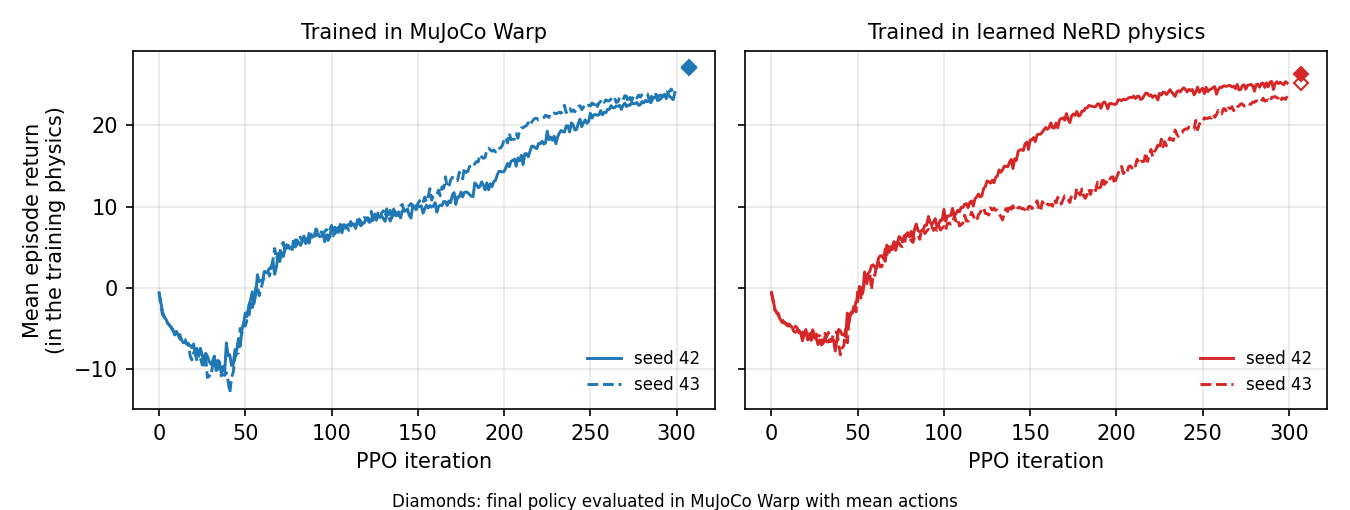
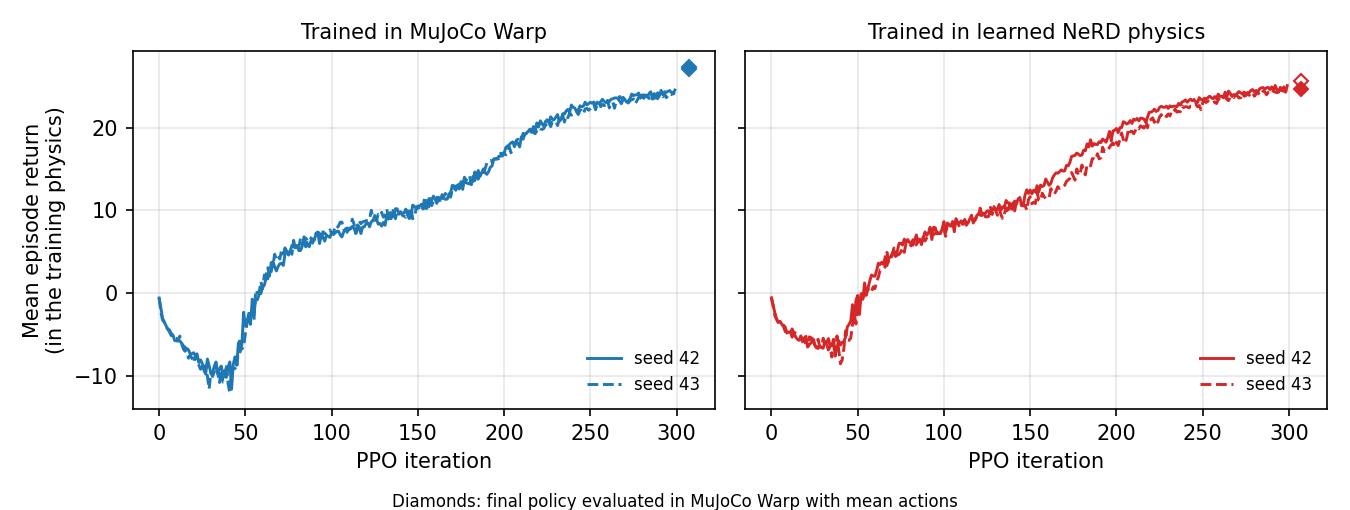
Report results retrained on Newton 1.7, MuJoCo 3.14, and Torch 2.11
Cartpole, ANYmal-C, and both 5,000,000-update CartPole benchmarks were retrained from scratch on the merged develop. The Cartpole recording is unchanged from Newton 1.6.1, and its model errors are reported over two training seeds because GPU training varies between runs; ANYmal-C, the benchmark tables, their training times, and the media now come from these runs.

diff --git a/source/isaaclab_physicsnemo/docs/README.md b/source/isaaclab_physicsnemo/docs/README.md
@@ -20,7 +20,7 @@ The extension is experimental and depends on an unreleased PhysicsNeMo Robotics.
 | Integration (manager, preflight, model identity, recording, training, deployment) | Complete for whole-scene learned physics of joint-backed robots; covered by CPU tests and CUDA tests of the data semantics |
 | Cartpole | Usable: a PPO policy trained only in learned physics transfers to MuJoCo Warp with the same return |
 | FlashNeRD CartPole benchmark | Reproduced: on the study's own teacher the recipe improves on every horizon of the paper's Table I |
-| ANYmal-C locomotion with target control | Usable: PPO policies trained only in learned physics reach 97 and 93 % of the MuJoCo Warp policies' return in MuJoCo Warp (two seeds), see below |
+| ANYmal-C locomotion with target control | Usable: PPO policies trained only in learned physics reach 90 and 94 % of the MuJoCo Warp policies' return in MuJoCo Warp (two seeds), see below |
 | Variable contact tokens, hybrid learned/Newton coupling | Not supported |
 
 Known limitations:
@@ -116,11 +116,12 @@ ANYmal-C training use, needs a C compiler and the Python headers for `torch.comp
 `python3.12-dev` on Ubuntu, as the container installs).
 
 The integration was validated with PhysicsNeMo Robotics tag `mnabian/flashnerd-benchmark-v1`
-(`a81160e`), Newton 1.6.1, Warp 1.17.0, Torch 2.12 (CUDA 13), PhysicsNeMo 2.1.1, and RSL-RL 5.5.1, on one
-NVIDIA RTX PRO 5000 Blackwell GPU and in the container on two NVIDIA L40S GPUs. The tag adds the FlashNeRD
-benchmark tooling and the ParallelNeRD FP16 safeguards to `mataei/icra` at `4e4be69`; its library sources
-otherwise equal that commit. All results below were measured with the tag and Newton 1.6.1. The tests
-also pass with the Newton 1.7.0.dev0 (`5ea82ee`), MuJoCo 3.14, and Torch 2.11 that Isaac Lab now locks.
+(`a81160e`), Newton 1.7.0.dev0 (`5ea82ee`), MuJoCo 3.14, Warp 1.17.0, Torch 2.11 (CUDA 13), PhysicsNeMo
+2.1.1, and RSL-RL 5.5.1, on one NVIDIA RTX PRO 5000 Blackwell GPU and in the container on two NVIDIA L40S
+GPUs. The tag adds the FlashNeRD benchmark tooling and the ParallelNeRD FP16 safeguards to `mataei/icra` at
+`4e4be69`; its library sources otherwise equal that commit. All results below were measured with these
+versions; earlier runs with Newton 1.6.1, MuJoCo 3.12, and Torch 2.12 recorded the same Cartpole data and
+gave results in the same ranges.
 
 ## Examples
 
@@ -154,27 +155,31 @@ done
 The recording follows the task-independent data of NeRD and FlashNeRD (`CartpoleExplorationEnvCfg`):
 episodes start anywhere on the track, at every pole angle, and with large velocities, and each episode draws
 its own action scale, so the data covers the command range that controllers use. The dataset holds about
-10,800 episodes and 1.5 million frames. On one RTX PRO 5000 GPU, recording takes 10 minutes, training 13
-minutes, and each PPO run under 3 minutes. Held-out results of this model after 30,000 updates (1/120 s
-frames; each horizon uses the episodes long enough for it, from 1,069 at E1 to 373 at E200):
+10,800 episodes and 1.5 million frames. On one RTX PRO 5000 GPU, recording takes 12 minutes, training 12
+minutes, and each PPO run under 3 minutes. Held-out results after 30,000 updates (1/120 s frames; each horizon
+uses the episodes long enough for it, from 1,069 at E1 to 373 at E200), for two trainings on the same data
+with seeds 7 and 8:
 
 | E1 | E15 | E100 | E200 |
 | --- | --- | --- | --- |
-| 2.1e-4 | 9.7e-4 | 7.7e-3 | 0.060 |
+| 3.1e-4 / 4.1e-4 | 1.7e-3 / 2.2e-3 | 0.019 / 0.027 | 0.103 / 0.092 |
+
+GPU training is not deterministic, so single runs on the same data vary: earlier trainings of the same
+configuration reached E100 between 0.008 and 0.012 and E200 between 0.060 and 0.104.
 
 These frames are half as long as the FlashNeRD study's, so the values are not comparable with the paper;
 the benchmark below repeats the study's configuration.
 
-The deployed model stays within 0.007 m or rad of MuJoCo Warp joint positions after 0.5 s of open-loop
-random actions. PPO policies trained only in the learned environment balance the MuJoCo Warp Cartpole in
-99.8 and 100 % of 1,536 evaluation episodes, with returns of 4.93 and 4.95 against 4.94 and 4.95 for
-policies trained in MuJoCo Warp (seeds 42 and 43). In an earlier ablation with `4e4be69` and a fixed action
+The seed-7 model stays within 0.019 m or rad of MuJoCo Warp joint positions after 0.5 s of open-loop
+random actions. PPO policies trained only in its learned environment balance the MuJoCo Warp Cartpole in all
+1,536 evaluation episodes, with returns of 4.947 and 4.943 against 4.943 and 4.949 for policies trained in
+MuJoCo Warp (seeds 42 and 43). In an earlier ablation with `4e4be69` and a fixed action
 scale of 0.5 (about 50 N), the model reached a lower E200 of 0.023, but the PPO policy exploited its errors
 at larger efforts and succeeded in only 55 % of MuJoCo Warp episodes.
 
 PPO training curves of these runs. Each return is measured in the physics the policy trains in, MuJoCo Warp
 on the left and the learned model on the right. All four runs pass a return of 4.8 between iterations 32
-and 47 and end between 4.93 and 4.96.
+and 47 and end between 4.93 and 4.95.
 
 ![Cartpole PPO training return in MuJoCo Warp and in learned physics](media/cartpole_ppo_reward.png)
 
@@ -201,15 +206,15 @@ torchrun --standalone --nproc-per-node 2 $B --output /tmp/fnb-physicsnemo --stag
   --teacher physicsnemo --physicsnemo-root "$ROBOTICS_ROOT" --max-updates 5000000 --checkpoint-every 250000
 ```
 
-The `data` stage runs in one process (about ten minutes for either teacher); the `train` stage runs under
+The `data` stage runs in one process (about 17 minutes for either teacher in the container); the `train` stage runs under
 `torchrun` for the study's two data-parallel ranks, or as a single process with the same global batch. Training uses FP16 autocast,
 appends the held-out `E_H` of every checkpoint to `rollout_nrmse.jsonl`, prints the final table next to the
 paper's values, and resumes from its last checkpoint when rerun with the same arguments. The
 study's own teacher separates the training recipe from the difference in teacher systems. Five million
-updates take about ten hours on two L40S GPUs (135 updates per second). `--max-updates 50000
+updates take about twelve hours on two L40S GPUs (116 updates per second). `--max-updates 50000
 --checkpoint-every 25000` checks a setup in about 16 minutes on one RTX PRO 5000 GPU (93 updates per second)
-and gives E1 = 9.9e-5 and E200 = 0.11 on the study's teacher, and E1 = 1.6e-4 and E200 = 0.020 on the Isaac
-Lab teacher.
+and gave E1 = 9.9e-5 and E200 = 0.11 on the study's teacher, and E1 = 1.6e-4 and E200 = 0.020 on the Isaac
+Lab teacher, with Newton 1.6.1 and Torch 2.12.
 
 | Setting | Study | This benchmark |
 | --- | --- | --- |
@@ -219,18 +224,19 @@ Lab teacher.
 | Optimization | Global batch 4,096, 1e-3 to 1e-4, 5,000,000 updates, FP16 autocast, two ranks | Same, with `--max-updates` updates and `torch.compile` |
 | Metric | Prefix-pooled `E_H` on the finite held-out cohort, training-state scale | Same (`evaluate_rollout_nrmse`) |
 
-Results after the study's 5,000,000 updates on two L40S GPUs (about ten hours each), on all 2,048 held-out
+Results after the study's 5,000,000 updates on two L40S GPUs (about twelve hours each), on all 2,048 held-out
 trajectories, none non-finite:
 
 | E_H | E1 | E15 | E50 | E100 | E200 | E500 |
 | --- | --- | --- | --- | --- | --- | --- |
-| Study teacher (`--teacher physicsnemo`) | 1.8e-5 | 8.7e-5 | 2.6e-4 | 1.8e-3 | 0.048 | 0.92 |
-| Isaac Lab teacher | 7.0e-5 | 2.5e-4 | 8.5e-4 | 4.2e-3 | 0.012 | 0.025 |
+| Study teacher (`--teacher physicsnemo`) | 2.3e-5 | 1.3e-4 | 3.3e-4 | 2.5e-3 | 0.059 | 0.92 |
+| Isaac Lab teacher | 5.4e-5 | 2.3e-4 | 5.8e-4 | 2.1e-3 | 4.9e-3 | 0.018 |
 | FlashNeRD paper | 4.4e-5 | 1.7e-4 | - | 3.2e-3 | 0.060 | - |
 
-On the study's own teacher, the recipe reproduces Table I of the paper and improves on every reported horizon.
-On the Isaac Lab Cartpole, short horizons are within 1.6 times the paper and long horizons are five times
-better, because its cart is damped and rarely reaches the track limits. With forces up to the 400 N actuator
+On the study's own teacher, the recipe reproduces Table I of the paper and improves on every reported horizon;
+an earlier run with Newton 1.6.1 reached E200 = 0.048. On the Isaac Lab Cartpole, short horizons are within
+1.3 times the paper and E100 and E200 are 1.5 and 12 times better, because its cart is damped and rarely
+reaches the track limits. With forces up to the 400 N actuator
 limit instead, the cart accelerates ten times harder than the study's and a third of the trajectories hit the
 track limits; E100 then stays near 0.07, twenty times the paper.
 
@@ -272,7 +278,7 @@ python $E/train_policy.py --output /tmp/anymal-c/ppo-learned --artifact /tmp/any
 
 | Stage | Cost and remedy |
 | --- | --- |
-| Recording | PhysicsNeMo Robotics rewrites a dataset's whole manifest after every episode, and writing is single-threaded. With 2 processes of 8,192 environments, ten million transitions took over six hours; with 8 processes of 2,048 environments and shards of 4,000 episodes (`shard_episodes`), 14 minutes on two L40S GPUs |
+| Recording | PhysicsNeMo Robotics rewrites a dataset's whole manifest after every episode, and writing is single-threaded. With 2 processes of 8,192 environments, ten million transitions took over six hours; with 8 processes of 2,048 environments and shards of 4,000 episodes (`shard_episodes`), 13 minutes on two L40S GPUs |
 | Loading | Every trajectory is a Zarr group. Worker processes read them in parallel (`TrainingSettings.read_workers`, 5.6 times faster for 16,384 trajectories), data-parallel ranks share one read through a cache file, and `cache_dataset` keeps it for later runs (16,384 trajectories in 1.2 s) |
 | Normalization | `normalizer_windows` fits the statistics on a spread subset (2,000,000 of 9.5 million windows) |
 | Windows | Gathered in batches on the GPU from the stacked trajectories; 1.6 million ANYmal-C windows take 1.6 s instead of 140 s with the PhysicsNeMo Robotics loader, with identical values |
@@ -293,14 +299,14 @@ The recorded targets equal what the learned scene hands the model, element for e
 Data. With 2.46 million transitions (4,096 x 600 control periods) the model overfits: from 10,000 to 60,000
 updates the training RMSE of the normalized one-step prediction falls from 0.24 to 0.11 while the validation
 RMSE rises from 0.281 to 0.286. With ten million transitions (8 x 2,048 x 618, the commands above) the
-validation RMSE keeps falling, to 0.213 after 60,000 updates. On a second recording with the same settings,
-200,000 updates (94 minutes on two L40S GPUs) end at 0.217, flat after 120,000 updates while the training RMSE
-falls to 0.13, but lower the open-loop error of 64 random-target rollouts after 2 s from 0.114 to 0.103 rad in joint positions and from
-0.023 to 0.018 m in base height. The results below use the 200,000-update model.
+validation RMSE keeps falling: to 0.260, 0.225, 0.221, and 0.219 after 10,000, 60,000, 120,000, and 200,000
+updates (92 minutes on two L40S GPUs), with a training RMSE of about 0.14 at the end. After 2 s of open-loop
+random targets in 64 environments, the model is 0.126 rad from MuJoCo Warp in joint positions and 0.028 m in
+base height. The results below use this model.
 
 Reward. Isaac Lab differences joint velocities over every physics step for `joint_acc`, 5 ms in MuJoCo
 Warp but 20 ms in the learned model, so the ANYmal-D `dof_acc_l2` penalty measures different quantities in
-the two physics. With it and the 60,000-update model, the same MuJoCo Warp policy loses 0.057 per step to the penalty in MuJoCo Warp and
+the two physics. In an earlier run with Newton 1.6.1 and a 60,000-update model, the same MuJoCo Warp policy loses 0.057 per step to the penalty in MuJoCo Warp and
 0.010 in learned physics, and PPO in learned physics found a crouched, fast-stepping gait whose 5 ms
 accelerations cost 0.95 per step in MuJoCo Warp: its policies scored 28 in learned physics and 8.2 and
 -1.7 in MuJoCo Warp, while tracking velocity better than the MuJoCo Warp policies. `control_period_joint_acc_l2`
@@ -308,21 +314,19 @@ differences over the 20 ms environment step in both physics, with the weight sca
 walking gait's squared accelerations at the two intervals; the same MuJoCo Warp policy then loses 0.056 and
 0.050 per step.
 
-With this reward, every result over 256 environments and 1,000 steps with mean actions; each seed's two PPO
-runs took 40 minutes in parallel on two L40S GPUs:
+With this reward, every result over 256 environments and 1,000 steps with mean actions; the two PPO runs in
+learned physics took 40 minutes in parallel on two L40S GPUs:
 
 | Policy, seed | Return in MuJoCo Warp | Velocity tracking error | Fall rate | Return in learned physics |
 | --- | --- | --- | --- | --- |
-| Trained in MuJoCo Warp, 42 / 43 | 27.15 / 27.09 | 0.086 / 0.083 m/s | 0 / 0.4 % | 27.01 / 27.14 |
-| Trained in learned physics, 42 / 43 | 26.28 / 25.26 | 0.089 / 0.108 m/s | 1.6 / 1.6 % | 27.54 / 26.97 |
+| Trained in MuJoCo Warp, 42 / 43 | 27.29 / 27.12 | 0.083 / 0.085 m/s | 0 / 0.4 % | 27.13 / 27.28 |
+| Trained in learned physics, 42 / 43 | 24.66 / 25.61 | 0.101 / 0.096 m/s | 6.2 / 1.2 % | 27.33 / 27.23 |
 
-The learned environment reproduces the MuJoCo Warp policies within 0.15, and the policies trained only in
-learned physics keep 97 and 93 % of the MuJoCo Warp return when they run in MuJoCo Warp, against parity (28.0
-and 27.8) in the FlashNeRD paper. The longer-trained model matters: with the 60,000-update model, the seed-42
-policy kept 89 % (24.05 against 27.05). For the seed-42 policy, the loss in MuJoCo Warp shrinks from 0.15 to
-0.05 per step, of which the acceleration penalty is 0.02: for its lower gait (base 0.41 m high against 0.50 m)
-the model predicts 1.5 times smaller control-period accelerations than MuJoCo Warp produces, against 2.6 times
-with the 60,000-update model.
+The learned environment reproduces the MuJoCo Warp policies within 0.16, and the policies trained only in
+learned physics keep 90 and 94 % of the MuJoCo Warp return when they run in MuJoCo Warp, against parity (28.0
+and 27.8) in the FlashNeRD paper. Their remaining loss in MuJoCo Warp comes with more falls, 6.2 % of the
+seed-42 episodes. These are two seeds of one recording and one model; as the Cartpole trainings show, single
+runs vary.
 
 PPO training curves of these runs, each measured in the physics the policy trains in; diamonds are the final
 policies' returns in MuJoCo Warp:
